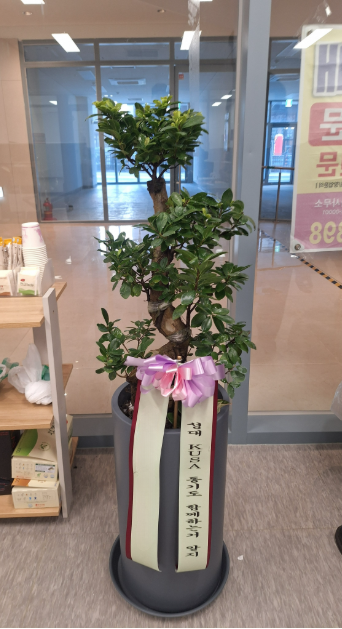
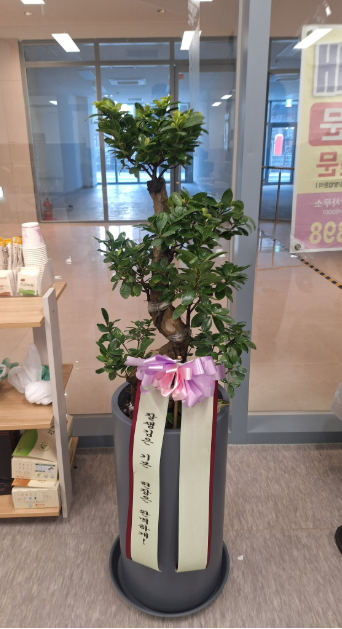
리뷰 이미지 3장 교체 (가지마루·녹보수·파키라) + 캐시 버전 v2→v3
- 파키라 436KB, 녹보수 481KB, 가지마루 453KB 원본 고화질
- 스크롤 마키·클릭 모두 새 이미지 노출
- 브라우저 강제 재다운로드 (?v=3)

Changed region(s): [[0.5263, 0.6645, 0.5848, 0.9062], [0.4094, 0.6343, 0.4678, 0.876]]

diff --git a/index.html b/index.html
@@ -533,7 +533,7 @@
     }
     function buildCard(name){
       const a = document.createElement('a');
-      a.href = '리뷰/' + encodeURIComponent(name) + '.png?v=2';
+      a.href = '리뷰/' + encodeURIComponent(name) + '.png?v=3';
       a.target = '_blank';
       a.rel = 'noopener';
       a.dataset.name = name;
@@ -544,7 +544,7 @@
         if(window.nvTrack) nvTrack('4', 'review_' + name);
       });
       const img = document.createElement('img');
-      img.src = '리뷰/' + encodeURIComponent(name) + '.png?v=2';
+      img.src = '리뷰/' + encodeURIComponent(name) + '.png?v=3';
       img.alt = displayName(name);
       img.loading = 'lazy';
       img.style.cssText = 'width:100%; aspect-ratio:2/3; object-fit:cover; object-position:center top; display:block; background:#fafafa; filter:brightness(1.03) saturate(1.02);';
